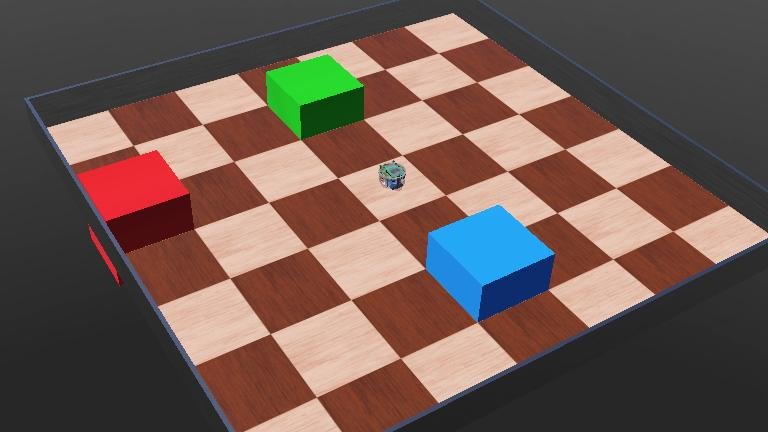
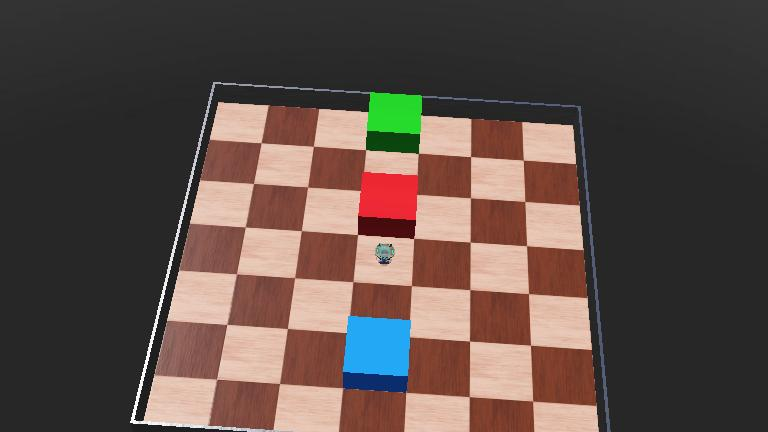
added another color

diff --git a/webots/llm_drive/controllers/llm_controller/llm_controller.py b/webots/llm_drive/controllers/llm_controller/llm_controller.py
@@ -33,11 +33,12 @@ robot_position = 0  # Current position on the line
 
 # World
 world_map = {
-    "green": 2,    # 2 tiles forward
+    "green": 3,    # 2 tiles forward
+    "red": 1,      # 1 tile forward
     "blue": -2     # 2 tiles backward
 }
 
-goal_name = "green" 
+goal_name = "red" 
 goal_position = world_map[goal_name]
 
 
